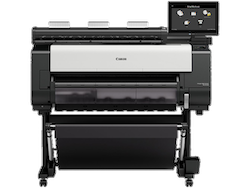
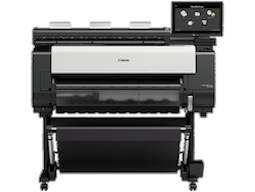
Replaced machine images with links hosted on imgBB

diff --git a/src/sales.html b/src/sales.html
@@ -110,13 +110,13 @@
        <br/> 
        <a href="https://i.ibb.co/T40zmsm/image-PROGRAFTZ-30000-Canon.png" target="_blank">imagePROGRAF TZ-30000 MFP Z36</a>
         </div>
-            <div class="col mt-4"> 
-            <img src="/Users/samanthajones/Desktop/cesr-shelter/images/tx3100-removebg-preview.png" />
+            <div class="col mt-2"> 
+            <img src="https://i.ibb.co/8BHMfWP/tx3100-removebg-preview.png" />
             <br/><br/> 
             <a href="https://i.ibb.co/0JGqFpy/image-PROGRAF-TX-Series-Canon.png" target="_blank">imagePROGRAF TX-3100 MFP Z36</a>
             </div>
-            <div class="col">
-                <img src="/Users/samanthajones/Desktop/cesr-shelter/images/tx4100-removebg-preview.png" />
+            <div class="col mt-3">
+                <img src="https://i.ibb.co/TcJcr44/tx4100-removebg-preview.png" />
                 <br/>
                 <a href="https://i.ibb.co/0JGqFpy/image-PROGRAF-TX-Series-Canon.png" target="_blank">imagePROGRAF TX-4100 MFP Z36</a>
             </div>
@@ -137,7 +137,7 @@
             
         </div>
         <div class="col mt-0">
-            <img src="/Users/samanthajones/Desktop/cesr-shelter/images/860-1kip-removebg-preview.png"/>
+            <img src="https://i.ibb.co/sP1SrVx/860-1kip-removebg-preview.png"/>
            <br/> 
            <a href="https://i.ibb.co/2Pc3Pqx/KIP800-Series.png" target="_blank">Kip 860 Multi-Function Color System</a>
         </div>
@@ -157,13 +157,13 @@
         </div>
 
         <div class="col mt-3">
-            <img src="/Users/samanthajones/Desktop/cesr-shelter/images/kyocera8124-removebg-preview.png" />
+            <img src="https://i.ibb.co/NWS2vBf/kyocera8124-removebg-preview.png" />
             <br/> 
             <a href="https://i.ibb.co/Rb5Shq5/ECOSYSM8124cidnspecs.png" target="_blank">ECOSYS M8124cidn</a>
         </div>
 
         <div class="col mt-3">
-            <img src="/Users/samanthajones/Desktop/cesr-shelter/images/kyosmall-removebg-preview.png" />
+            <img src="https://i.ibb.co/YXjG3t1/kyosmall-removebg-preview.png" />
             <br/> 
             <a href="https://i.ibb.co/yQ1GhtJ/ECOSYS-P5026cdw.png" target="_blank">ECOSYS P5026cdw</a>
         </div>
